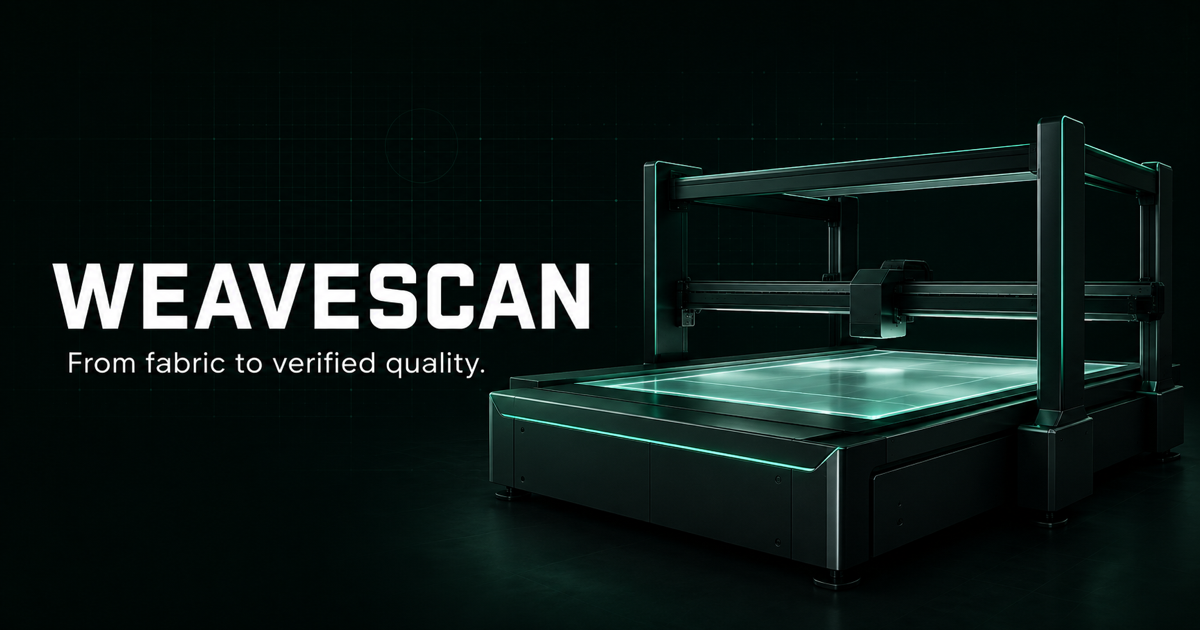
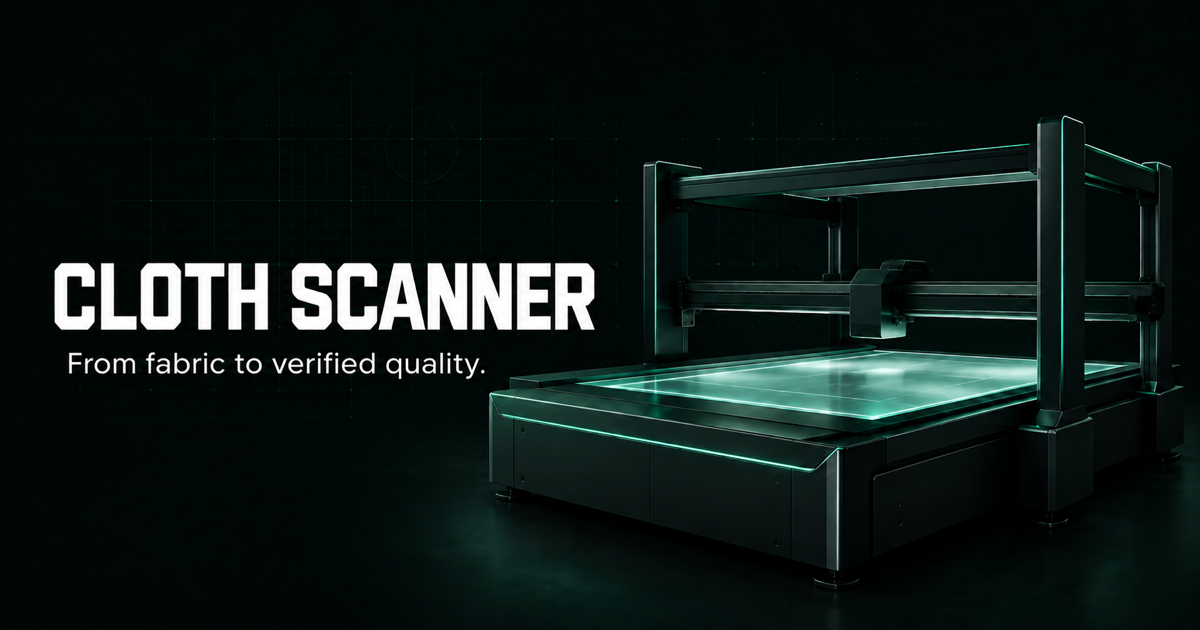
Rename product to Cloth Scanner

diff --git a/app/layout.tsx b/app/layout.tsx
@@ -4,20 +4,27 @@ import './globals.css';
 
 const geistSans = Geist({ variable: '--font-geist-sans', subsets: ['latin'] });
 const geistMono = Geist_Mono({ variable: '--font-geist-mono', subsets: ['latin'] });
+const siteUrl = process.env.VERCEL_PROJECT_PRODUCTION_URL
+  ? new URL(`https://${process.env.VERCEL_PROJECT_PRODUCTION_URL}`)
+  : new URL('http://localhost:3000');
 
 export const metadata: Metadata = {
-  title: 'WeaveScan | AI Cloth Scanner for RMG Industries',
+  metadataBase: siteUrl,
+  applicationName: 'Cloth Scanner',
+  title: 'Cloth Scanner | AI Cut Panel Inspection for RMG Industries',
   description: 'Meet the AI-based cut panel inspection robot for RMG industries. Precision handling, dual-view imaging, and intelligent cloth inspection.',
   openGraph: {
-    title: 'WeaveScan | AI Cloth Scanner for RMG Industries',
+    type: 'website',
+    siteName: 'Cloth Scanner',
+    title: 'Cloth Scanner | AI Cut Panel Inspection for RMG Industries',
     description: 'Precision handling, dual-view imaging, and intelligent cloth inspection for RMG industries.',
-    images: ['/og.png'],
+    images: [{ url: '/og.png?v=cloth-scanner', width: 1200, height: 630, alt: 'Cloth Scanner — from fabric to verified quality' }],
   },
   twitter: {
     card: 'summary_large_image',
-    title: 'WeaveScan | AI Cloth Scanner for RMG Industries',
+    title: 'Cloth Scanner | AI Cut Panel Inspection for RMG Industries',
     description: 'Precision handling, dual-view imaging, and intelligent cloth inspection for RMG industries.',
-    images: ['/og.png'],
+    images: ['/og.png?v=cloth-scanner'],
   },
 };
 

diff --git a/app/home-experience.tsx b/app/home-experience.tsx
@@ -28,7 +28,7 @@ export default function HomeExperience() {
   const [theme, setTheme] = useState<Theme>('dark');
 
   useEffect(() => {
-    const savedTheme = window.localStorage.getItem('weavescan-theme');
+    const savedTheme = window.localStorage.getItem('cloth-scanner-theme');
     if (savedTheme === 'light' || savedTheme === 'dark') {
       setTheme(savedTheme);
       return;
@@ -38,7 +38,7 @@ export default function HomeExperience() {
   const toggleTheme = () => {
     setTheme(current => {
       const next = current === 'light' ? 'dark' : 'light';
-      window.localStorage.setItem('weavescan-theme', next);
+      window.localStorage.setItem('cloth-scanner-theme', next);
       return next;
     });
   };

diff --git a/app/how-it-works/page.tsx b/app/how-it-works/page.tsx
@@ -1,7 +1,7 @@
 import type { Metadata } from 'next';
 import { ClientOnly } from '../client';
 
-export const metadata: Metadata = { title: 'How It Works | WeaveScan' };
+export const metadata: Metadata = { title: 'How It Works | Cloth Scanner' };
 
 export default function HowItWorks() {
   return <ClientOnly />;
